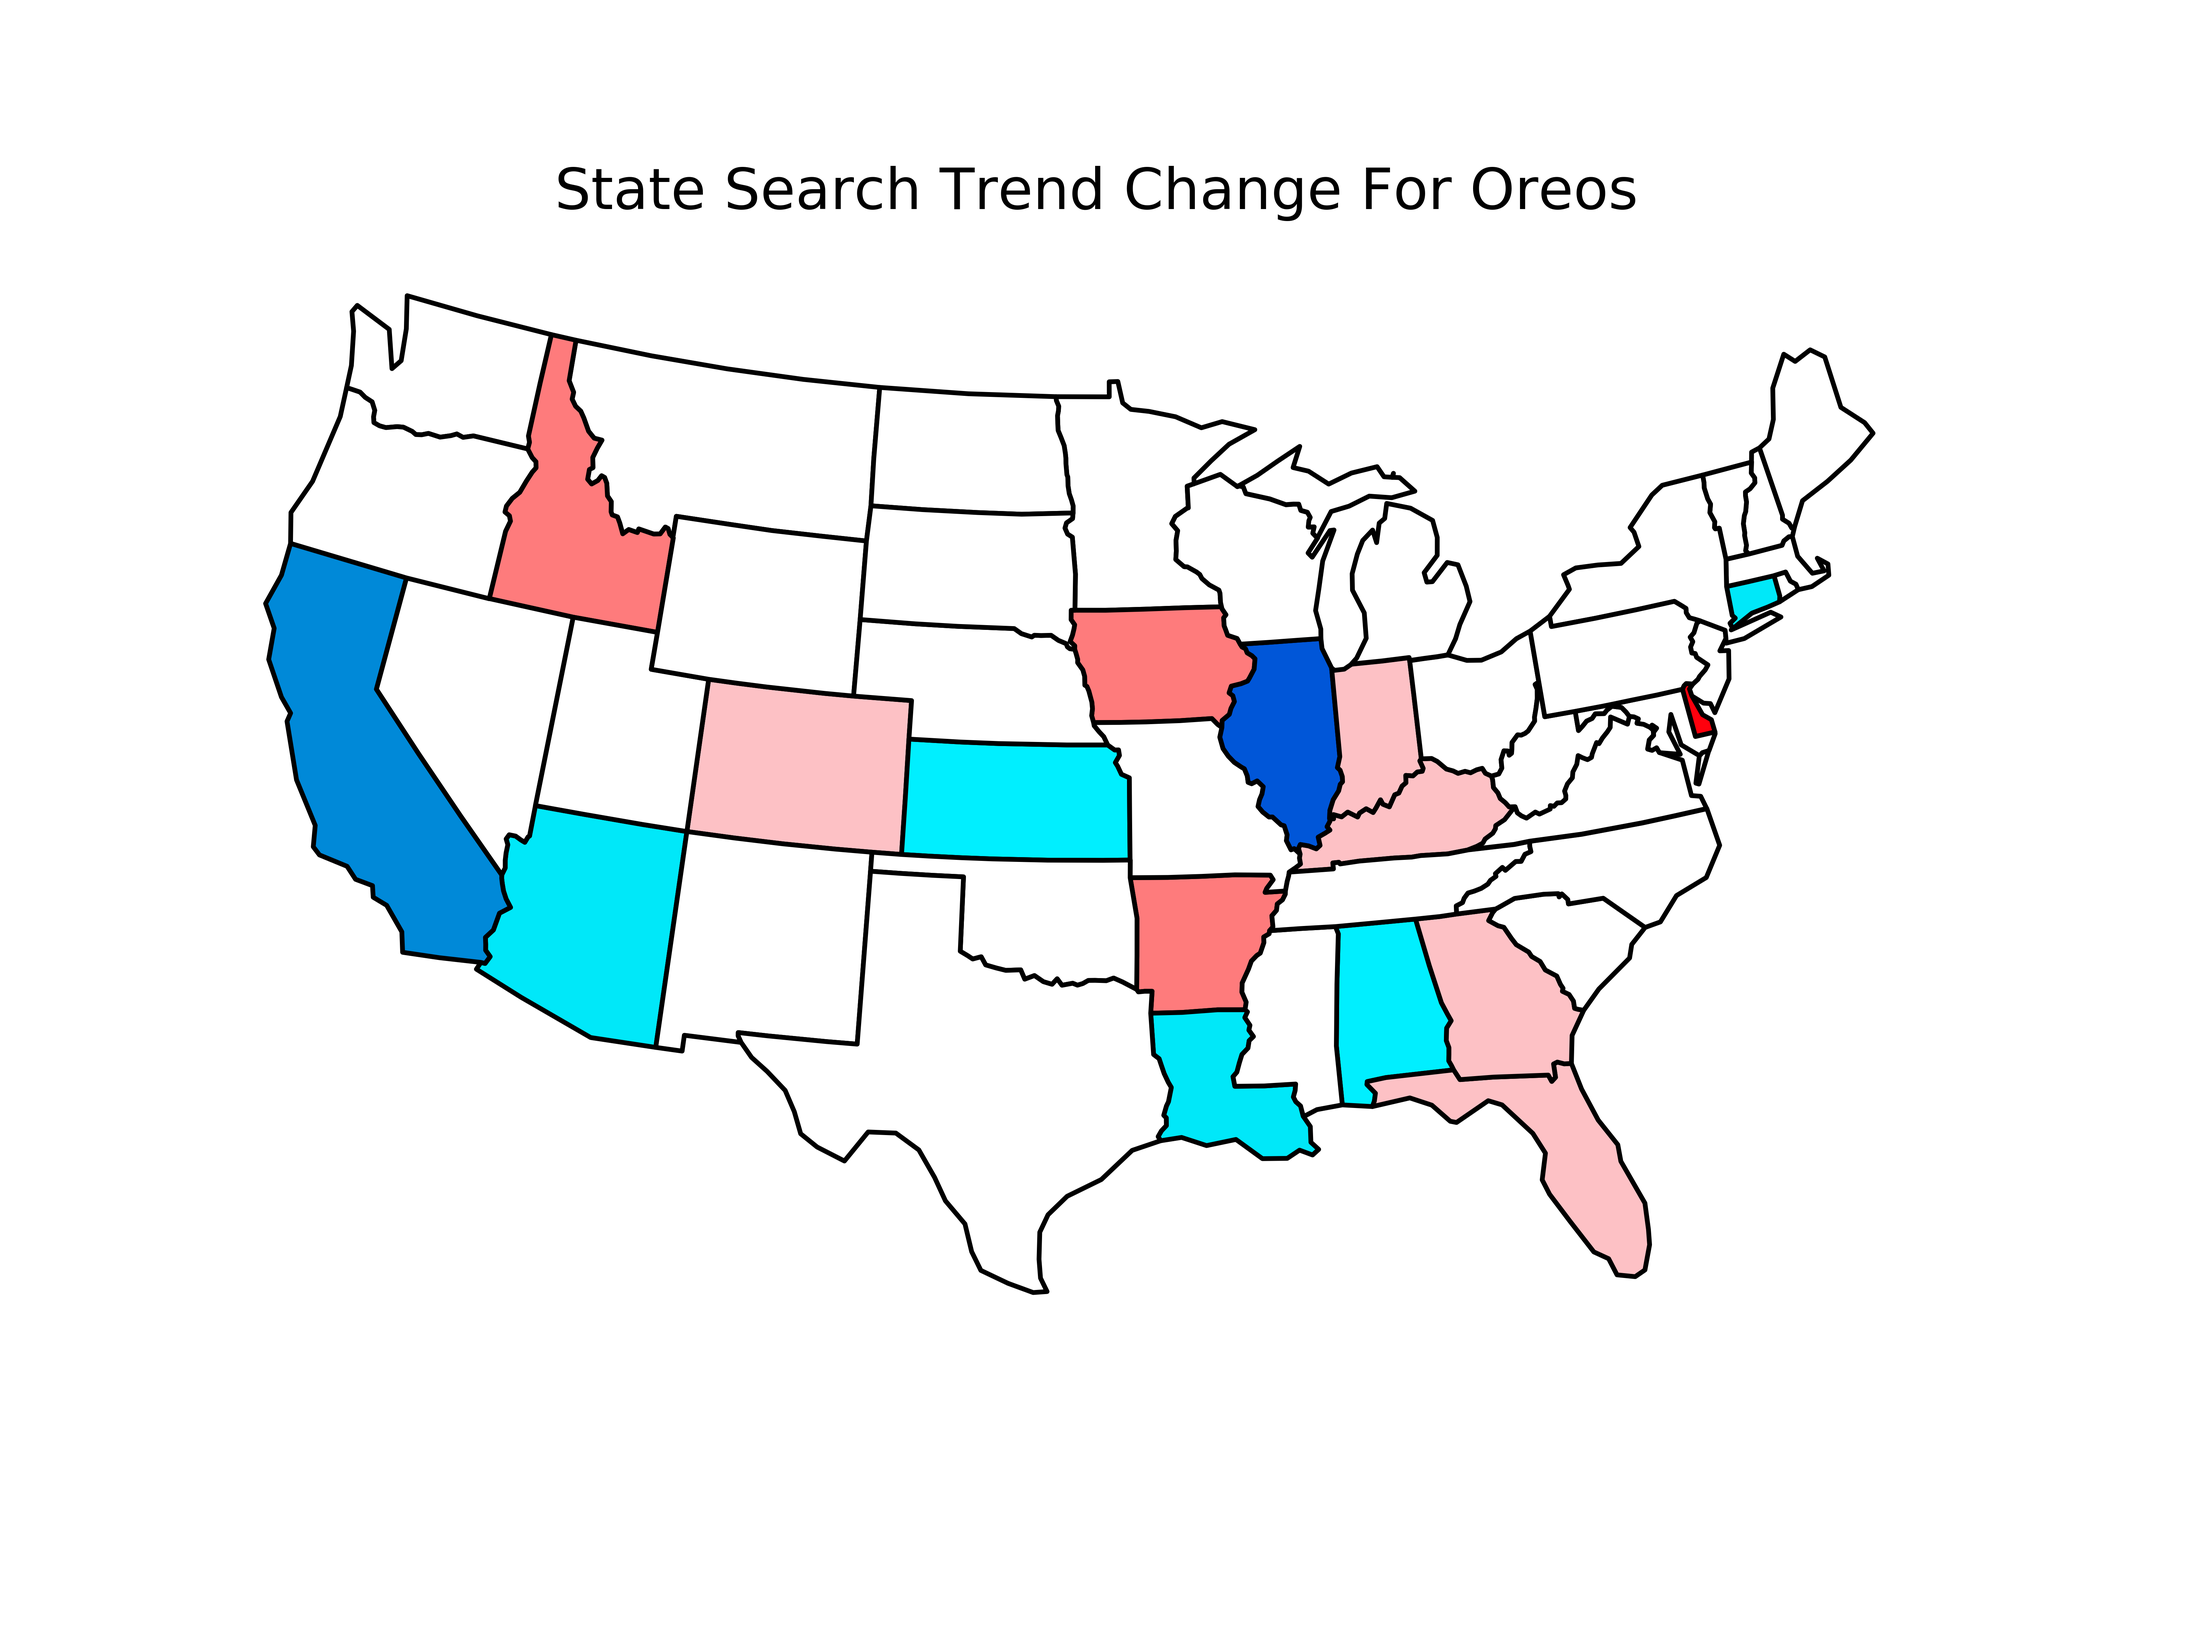
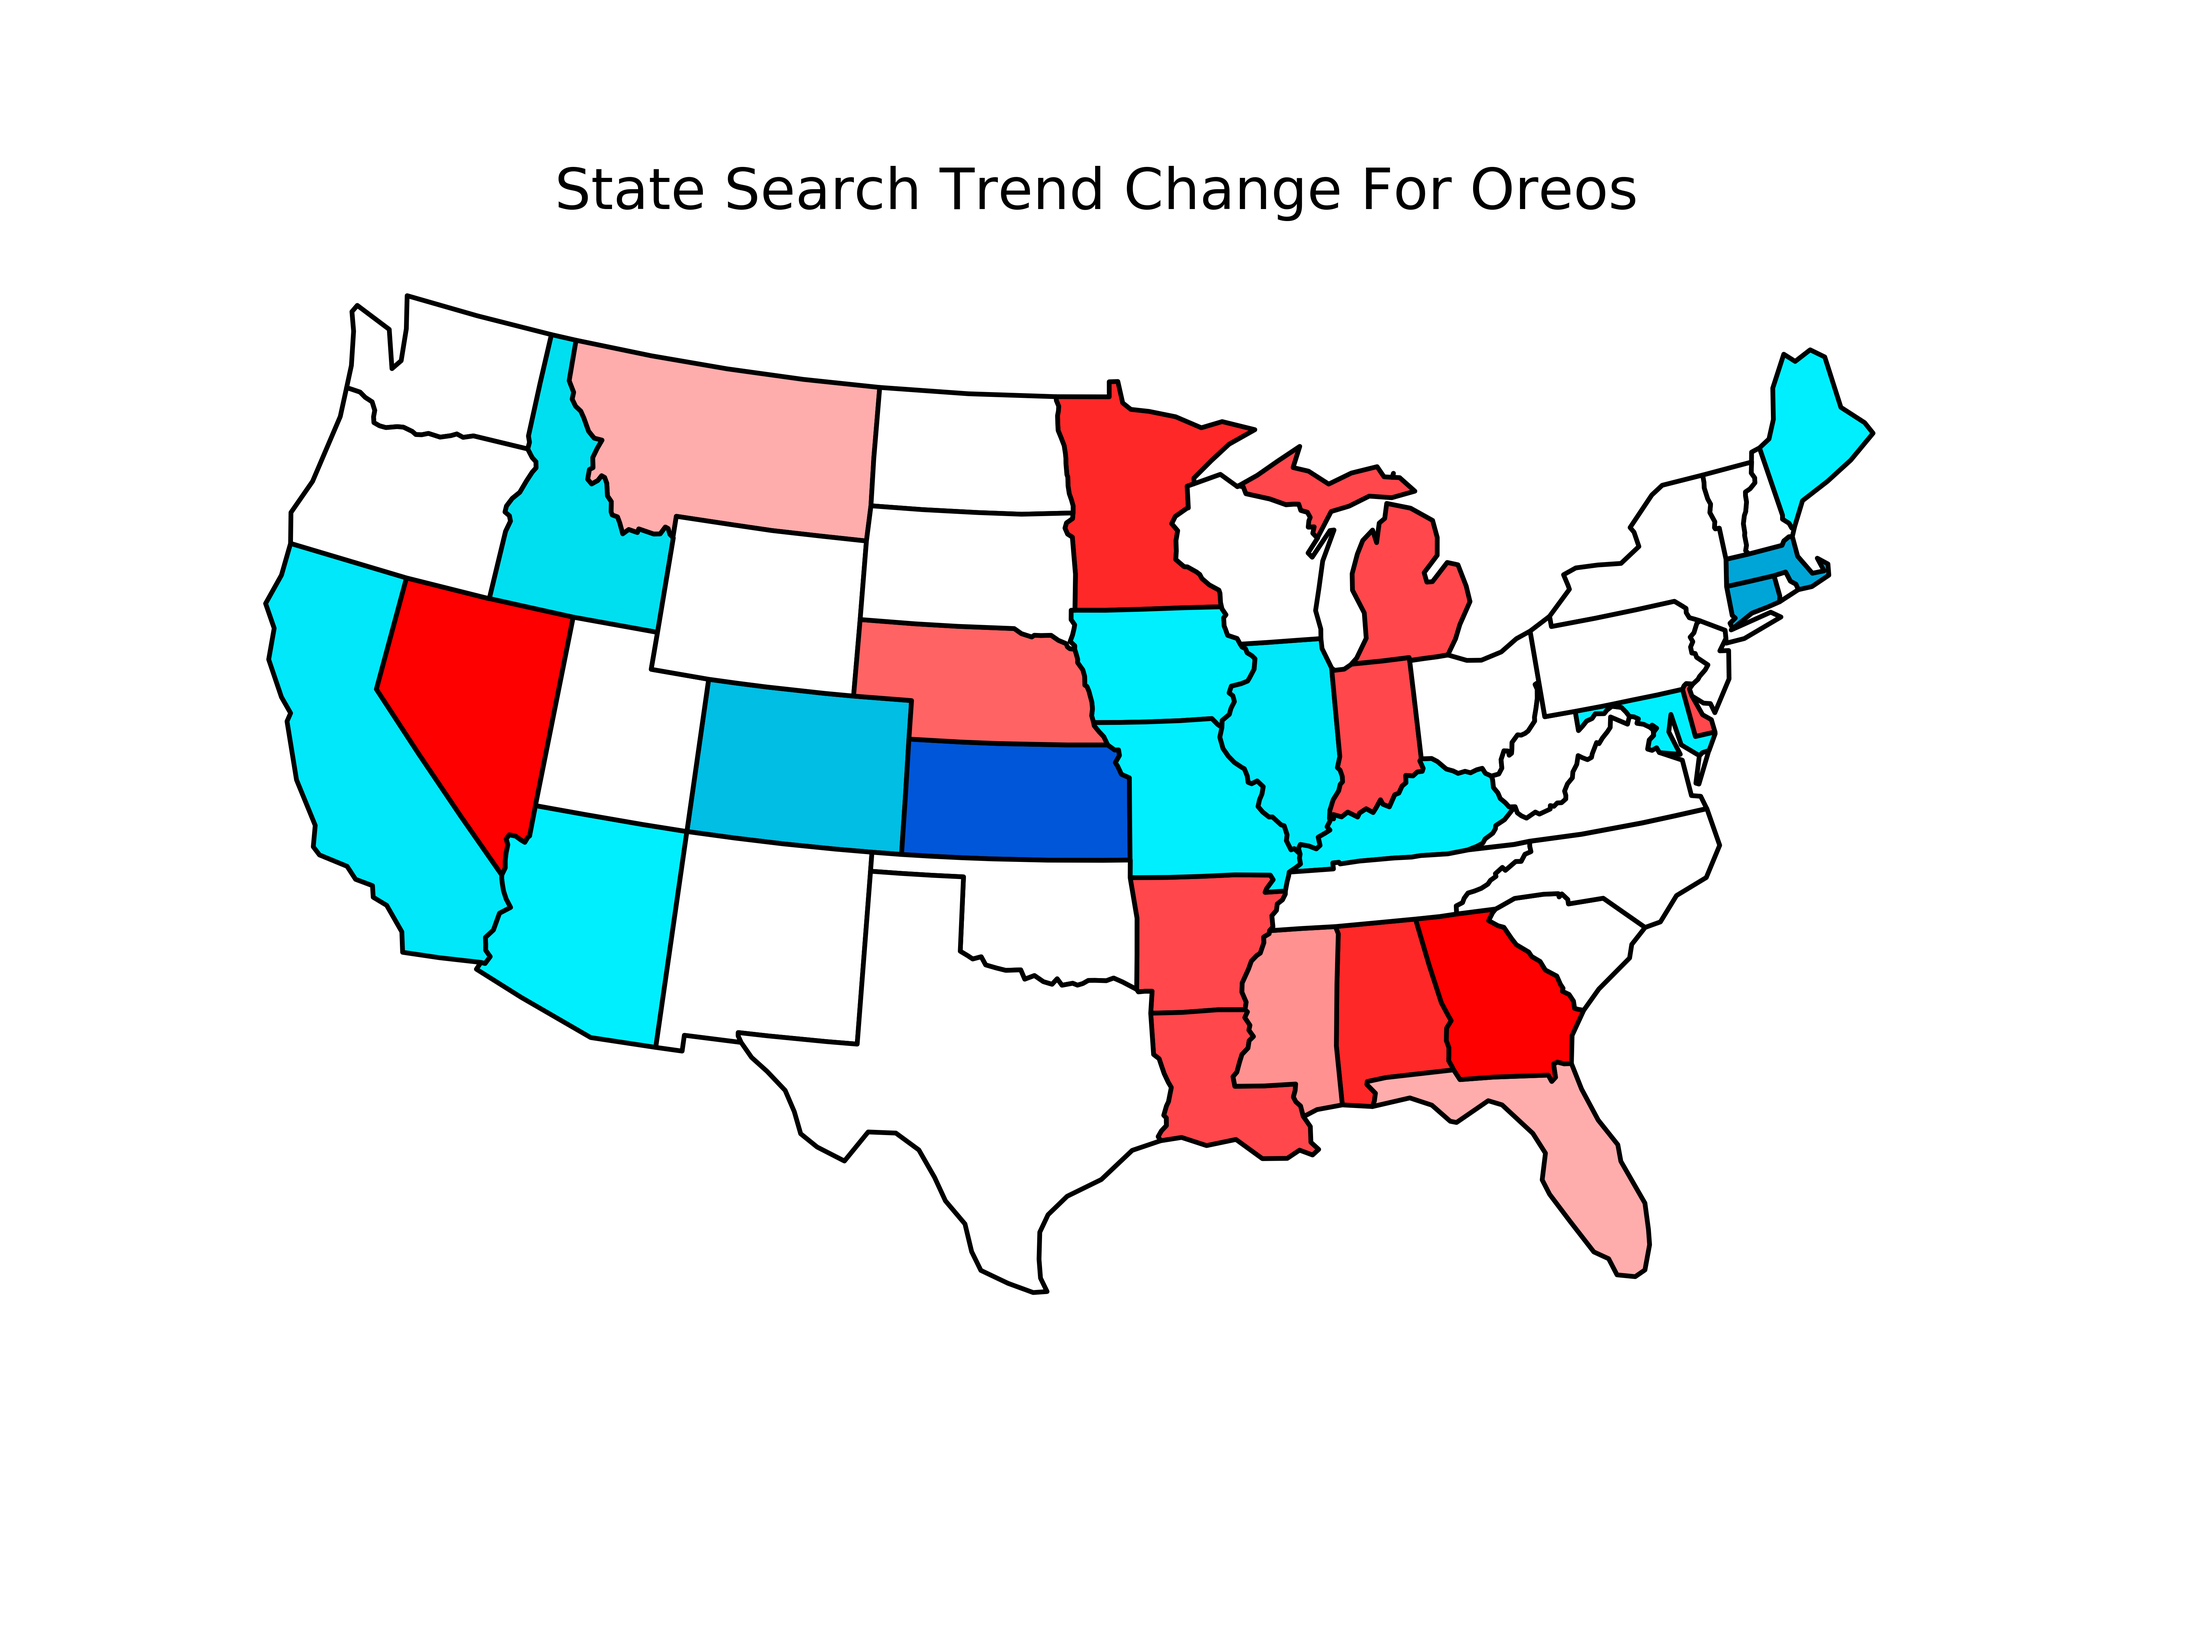
Sid Changes

diff --git a/app/Templates/mapinput.html b/app/Templates/mapinput.html
@@ -1,17 +1,30 @@
-{% extends 'base.html' %}
-
-{% block content %}
-    <h1>Enter the Inputs</h1>
-    <form action="" method="post" novalidate>
-        {{ form.hidden_tag() }}
-        <p>
-            {{ form.keyword.label }}<br>
-            {{ form.keyword(size=32) }}
-        </p>
-        <p>
-            {{ form.time_range.label }}<br>
-            {{ form.time_range(size=32) }}
-        </p>
-        <p>{{ form.submit() }}</p>
-    </form>
-{% endblock %}
+<html>
+    <head>
+        <link rel= "stylesheet" type= "text/css" href= "{{ url_for('static',filename='styles/mapinput.css') }}">
+        {% if title %}
+        <title>{{ title }} - TrendVis</title>
+        {% else %}
+        <title>TrendVis</title>
+        {% endif %}
+    </head>
+    <body>
+        <div>TrendVis:
+            <a href='/'>Home</a>
+            <a href='/map'>Map</a>
+        </div>
+        <hr>
+        <h1>Enter the Inputs</h1>
+        <form action="" method="post" novalidate>
+            {{ form.hidden_tag() }}
+            <p>
+                {{ form.keyword.label }}<br>
+                {{ form.keyword(size=32) }}
+            </p>
+            <p>
+                {{ form.time_range.label }}<br>
+                {{ form.time_range(size=32) }}
+            </p>
+            <p>{{ form.submit() }}</p>
+        </form>
+    </body>
+</html>

diff --git a/app/Templates/mapresult.html b/app/Templates/mapresult.html
@@ -1,10 +1,23 @@
-{% extends 'base.html' %}
-
-{% block content %}
-    <h1>Map Results</h1>
+<html>
+    <head>
+        <link rel= "stylesheet" type= "text/css" href= "{{ url_for('static',filename='styles/mapresult.css') }}">
+        {% if title %}
+        <title>{{ title }} - TrendVis</title>
+        {% else %}
+        <title>TrendVis</title>
+        {% endif %}
+    </head>
     <body>
-        <p><img src= {{image}} alt='Girl in a jacket',
-             height = '500', width = '500'> </p>
+        <div>TrendVis:
+            <a href='/'>Home</a>
+            <a href='/map'>Map</a>
+        </div>
+        <hr>
+        <h1>Map Results</h1>
+        <body>
+            <p><img src= {{image}} alt='Girl in a jacket',
+                 height = '600', width = '600'> </p>
+        </body>
     </body>
+</html>
         
-{% endblock %}  

diff --git a/app/static/styles/homepage.css b/app/static/styles/homepage.css
@@ -1,0 +1,1 @@
+h1{color: blue}

diff --git a/app/mapcode.py b/app/mapcode.py
@@ -313,17 +313,24 @@ def get_map(word, t):
         if 2.9 < state_dens:
           facecolor = '#0056D8'
       else:
-        if 1.3 < state_dens <= 1.6:
-          facecolor = 'xkcd:pale rose'
-        if 1.6 < state_dens <= 1.9:
-          facecolor = 'xkcd:salmon pink'
-        if 1.9 < state_dens <= 2.2:
+        if 1.3 < state_dens <= 1.5:
+          facecolor = '#FFACAC'
+        if 1.5 < state_dens <= 1.7:
+          facecolor = '#FF9191'
+        if 1.7 < state_dens <= 1.9:
           facecolor = 'xkcd:light red'
-        if 2.2 < state_dens <= 2.5:
-          facecolor = 'xkcd:strawberry'
-        if 2.5 < state_dens:
-          facecolor = 'xkcd:bright red'
-
+        if 1.9 < state_dens <= 2.1:
+          facecolor = '#FF6363'
+        if 2.1 < state_dens < 2.3:
+          facecolor = 'FF5151'
+        if 2.3 < state_dens < 2.5:
+          facecolor = '#FF3B3B'
+        if 2.5 < state_dens < 2.7:
+          facecolor = '#FF2828'
+        if 2.7 < state_dens < 2.9:
+          facecolor = '#FF1B1B'  
+        if 2.9 < state_dens:
+          facecolor = '#FF0000'
       # `astate.geometry` is the polygon to plot
       ax.add_geometries([astate.geometry], ccrs.PlateCarree(),
                         facecolor=facecolor, edgecolor=edgecolor)

diff --git a/app/routes.py b/app/routes.py
@@ -6,7 +6,7 @@ from app.forms import MapForm
 @app.route('/')
 @app.route('/home')
 def home():
-    return render_template('base.html', title = 'Home')
+    return render_template('homepage.html', title = 'Home')
 
 @app.route('/map', methods = ['GET', 'POST'])
 def map():
@@ -22,5 +22,3 @@ def map():
         return render_template('mapresult.html', title = 'Map Results', image = image)
 
     return render_template('mapinput.html', title = 'Map Inputs', form = form)
-
-
